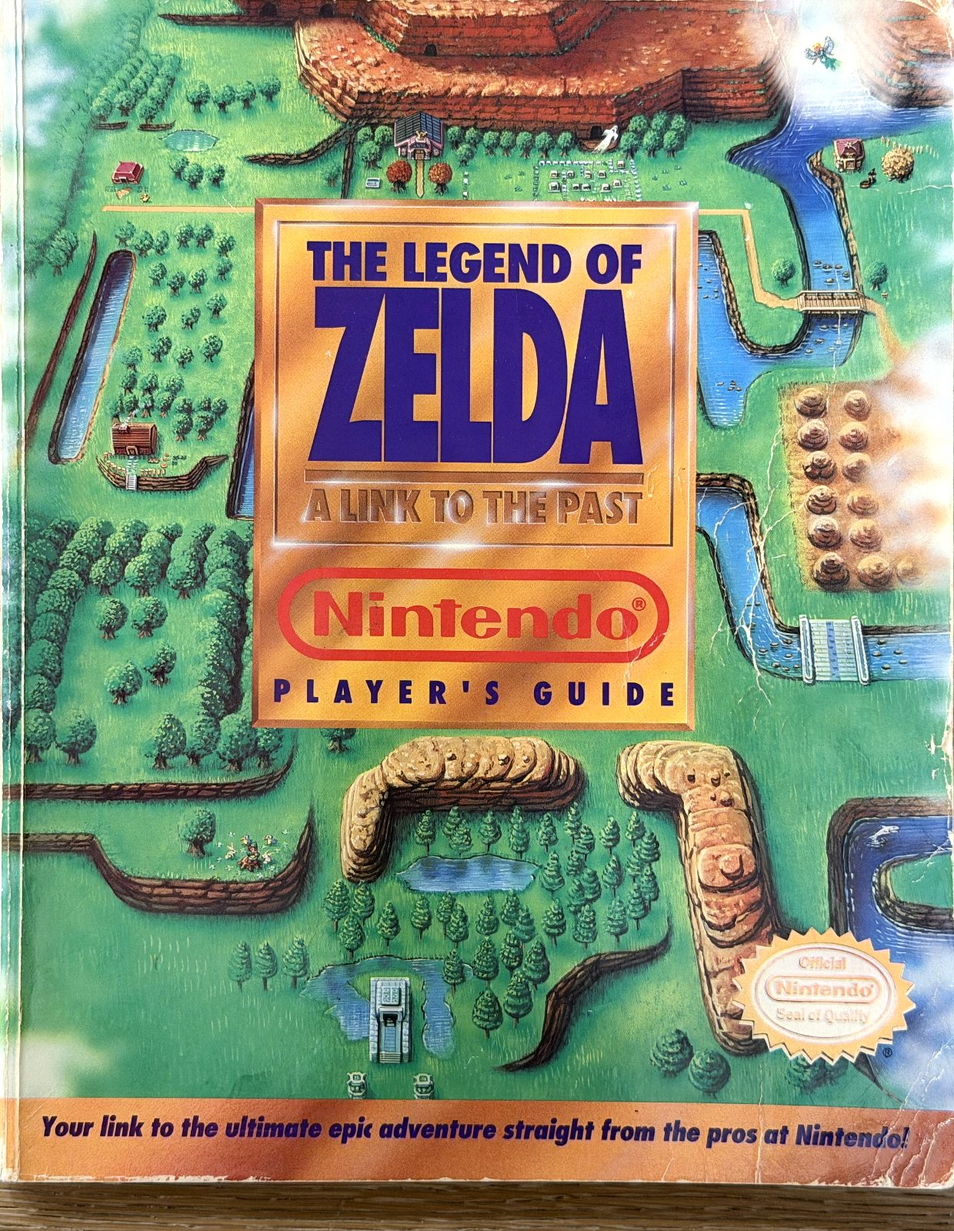
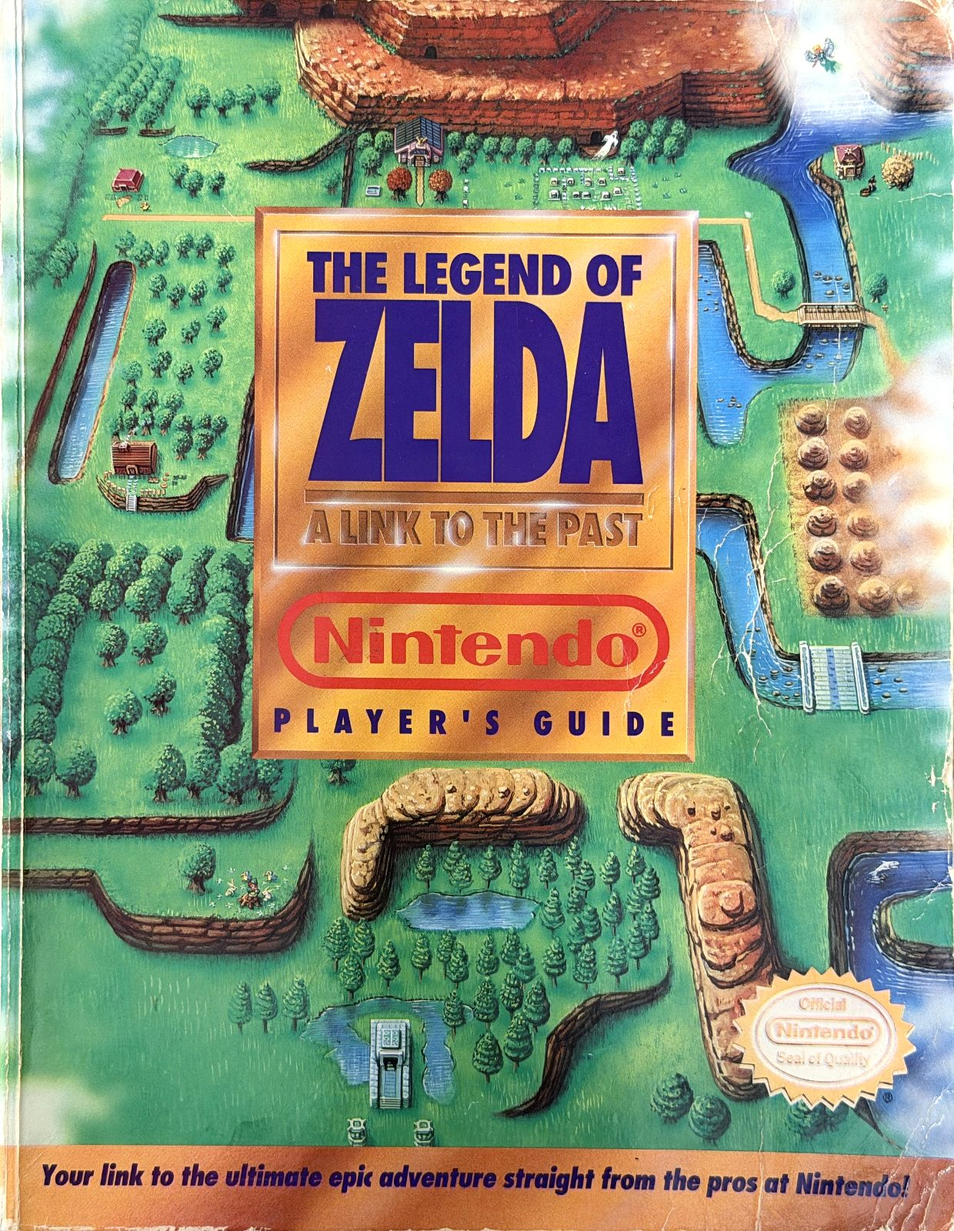
Recrop the Link to the Past guide cover — its bottom edge included table
The bottom edge was fitted about 120px below the book. The table there
falls into shadow, so it failed the background test and the edge scan ran
past the cover to the frame. Refit against the book's own printed edge:
aspect goes 0.757 to 0.789, back in line with the rest of the shelf.

Same 0.775 output aspect and the same 1.084 exposure gain as the first
render, so only the crop changes. Refs carry ?v=2 for the CDN.

diff --git a/guide-shelf.html b/guide-shelf.html
@@ -98,7 +98,7 @@
       <figure class="shot"><img src="media/thumbs/guide-earthbound.jpg" data-full="media/2026/guide-earthbound.jpg" alt="Cover of the Nintendo Player's Guide for EarthBound, clay figures around a splash of green" loading="lazy" width="800" height="1032"><figcaption><b>EarthBound</b> &mdash; Clay models photographed for real, and a Starman in the middle of the green</figcaption></figure>
       <figure class="shot"><img src="media/thumbs/guide-final-fantasy-strategy-guide.jpg" data-full="media/2026/guide-final-fantasy-strategy-guide.jpg" alt="Cover of Nintendo Power Strategy Guide Volume 17 for Final Fantasy, four adventurers in a boat under a floating castle" loading="lazy" width="800" height="1032"><figcaption><b>Final Fantasy</b> &mdash; Not a Player&rsquo;s Guide at all &mdash; Nintendo Power&rsquo;s Strategy Guide, Volume 17, cover price $3.50</figcaption></figure>
       <figure class="shot"><img src="media/thumbs/guide-final-fantasy-iii.jpg" data-full="media/2026/guide-final-fantasy-iii.jpg" alt="Cover of the Nintendo Player's Guide for Final Fantasy III, an ink-wash armored giant in black" loading="lazy" width="800" height="1032"><figcaption><b>Final Fantasy III</b> &mdash; An ink-wash giant in black, and the logo dropped into a red block</figcaption></figure>
-      <figure class="shot"><img src="media/thumbs/guide-a-link-to-the-past.jpg" data-full="media/2026/guide-a-link-to-the-past.jpg" alt="Cover of the Nintendo Player's Guide for The Legend of Zelda: A Link to the Past, the overworld drawn as a painted map" loading="lazy" width="800" height="1032"><figcaption><b>The Legend of Zelda: A Link to the Past</b> &mdash; The overworld drawn as a painted map, corner to corner</figcaption></figure>
+      <figure class="shot"><img src="media/thumbs/guide-a-link-to-the-past.jpg?v=2" data-full="media/2026/guide-a-link-to-the-past.jpg?v=2" alt="Cover of the Nintendo Player's Guide for The Legend of Zelda: A Link to the Past, the overworld drawn as a painted map" loading="lazy" width="800" height="1032"><figcaption><b>The Legend of Zelda: A Link to the Past</b> &mdash; The overworld drawn as a painted map, corner to corner</figcaption></figure>
       <figure class="shot"><img src="media/thumbs/guide-links-awakening.jpg" data-full="media/2026/guide-links-awakening.jpg" alt="Cover of the Nintendo Player's Guide for The Legend of Zelda: Link's Awakening, Koholint Island drawn in stipple with a compass rose" loading="lazy" width="800" height="1032"><figcaption><b>The Legend of Zelda: Link&rsquo;s Awakening</b> &mdash; Koholint stippled like an engraving, compass rose in the corner</figcaption></figure>
       <figure class="shot"><img src="media/thumbs/guide-majoras-mask.jpg" data-full="media/2026/guide-majoras-mask.jpg" alt="Cover of the Nintendo Player's Guide for The Legend of Zelda: Majora's Mask, the mask on a burst of gold" loading="lazy" width="800" height="1032"><figcaption><b>The Legend of Zelda: Majora&rsquo;s Mask</b> &mdash; The mask itself, eyes lit, on a burst of gold</figcaption></figure>
       <figure class="shot"><img src="media/thumbs/guide-ocarina-of-time.jpg" data-full="media/2026/guide-ocarina-of-time.jpg" alt="Cover of the Nintendo Player's Guide for The Legend of Zelda: Ocarina of Time, Link drawing a bow" loading="lazy" width="800" height="1032"><figcaption><b>The Legend of Zelda: Ocarina of Time</b> &mdash; Link drawing the bow &mdash; and a foreword by Miyamoto advertised right on the cover</figcaption></figure>
